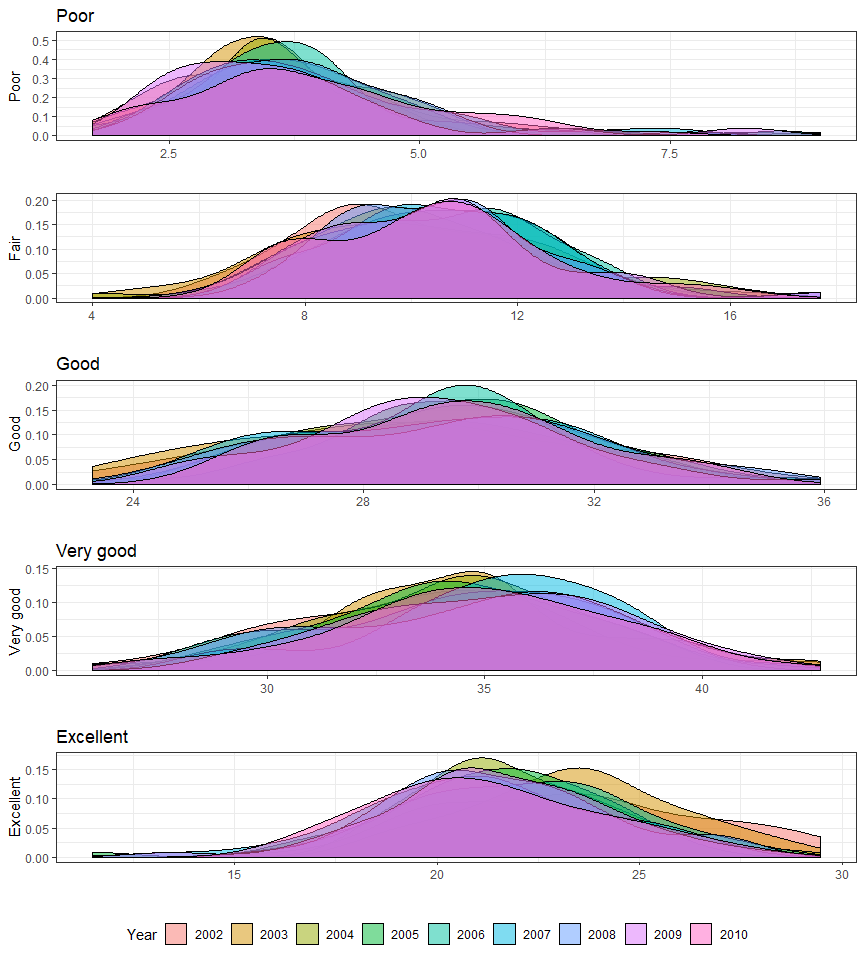
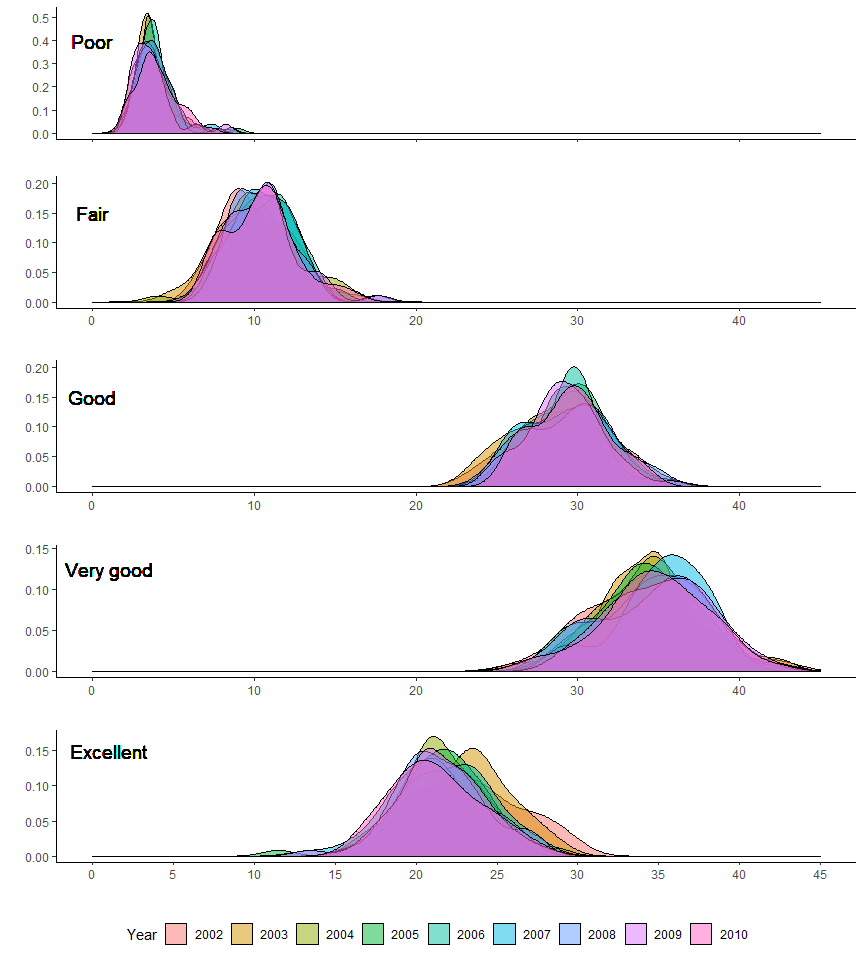
major edits to 5 panel plot problem 1

diff --git a/p8105_hw3_ntw2117.md b/p8105_hw3_ntw2117.md
@@ -66,36 +66,63 @@ avg_response_year_state <-
 poor_dist <- avg_response_year_state %>%
   filter(response == "Poor") %>%
   ggplot(aes(x = avg_response, fill = year)) +
-    geom_density(alpha = 0.5) +
-    labs(y = "Poor", x = "", title = "Poor") +
-    scale_fill_discrete(guide = FALSE)
+    geom_density(alpha = 0.5) + 
+    theme_classic() + 
+    geom_text(x = 0, y = 0.40, 
+              label = "Poor", 
+              size = 5) + 
+    scale_x_continuous(limits = c(0, 45)) + 
+    theme(axis.text.x = element_blank()) + 
+    labs(y = "", x = "") +
+    scale_fill_discrete(guide = FALSE) 
 
 fair_dist <- avg_response_year_state %>%
   filter(response == "Fair") %>%
   ggplot(aes(x = avg_response, fill = year)) +
     geom_density(alpha = 0.5) +
-    labs(y = "Fair", x = "") +
+    theme_classic() + 
+    geom_text(x = 0, y = 0.15, 
+              label = "Fair", 
+              size = 5) + 
+    scale_x_continuous(limits = c(0, 45)) + 
+    labs(y = "", x = "") +
     scale_fill_discrete(guide = FALSE)
 
 good_dist <- avg_response_year_state %>%
   filter(response == "Good") %>%
   ggplot(aes(x = avg_response, fill = year)) +
     geom_density(alpha = 0.5) +
-    labs(y = "Good", x = "", title = "Good") +
+    theme_classic() + 
+    geom_text(x = 0, y = 0.15, 
+              label = "Good", 
+              size = 5) + 
+    scale_x_continuous(limits = c(0, 45)) + 
+    labs(y = "", x = "") +
     scale_fill_discrete(guide = FALSE)
 
 v_good_dist <- avg_response_year_state %>%
   filter(response == "Very good") %>%
   ggplot(aes(x = avg_response, fill = year)) +
     geom_density(alpha = 0.5) +
-    labs(y = "Very good", x = "", title = "Very good") +
+    theme_classic() + 
+    geom_text(x = 1, y = 0.125, 
+              label = "Very good", 
+              size = 5) + 
+    scale_x_continuous(limits = c(0, 45)) + 
+    labs(y = "", x = "") +
     scale_fill_discrete(guide = FALSE)
 
 excel_dist <- avg_response_year_state %>%
   filter(response == "Excellent") %>%
   ggplot(aes(x = avg_response, fill = year)) +
     geom_density(alpha = 0.5) +
-    labs(y = "Excellent", x = "", title = "Excellent") +
+    theme_classic() + 
+    geom_text(x = 1, y = 0.15, 
+              label = "Excellent", 
+              size = 5) + 
+    scale_x_continuous(limits = c(0, 45), 
+                       breaks = c(0, 5, 10, 15, 20, 25, 30, 35, 40, 45)) + 
+    labs(y = "", x = "") +
     scale_fill_discrete(name = "Year") +
     theme(legend.position = "bottom",
           legend.direction = "horizontal") +
